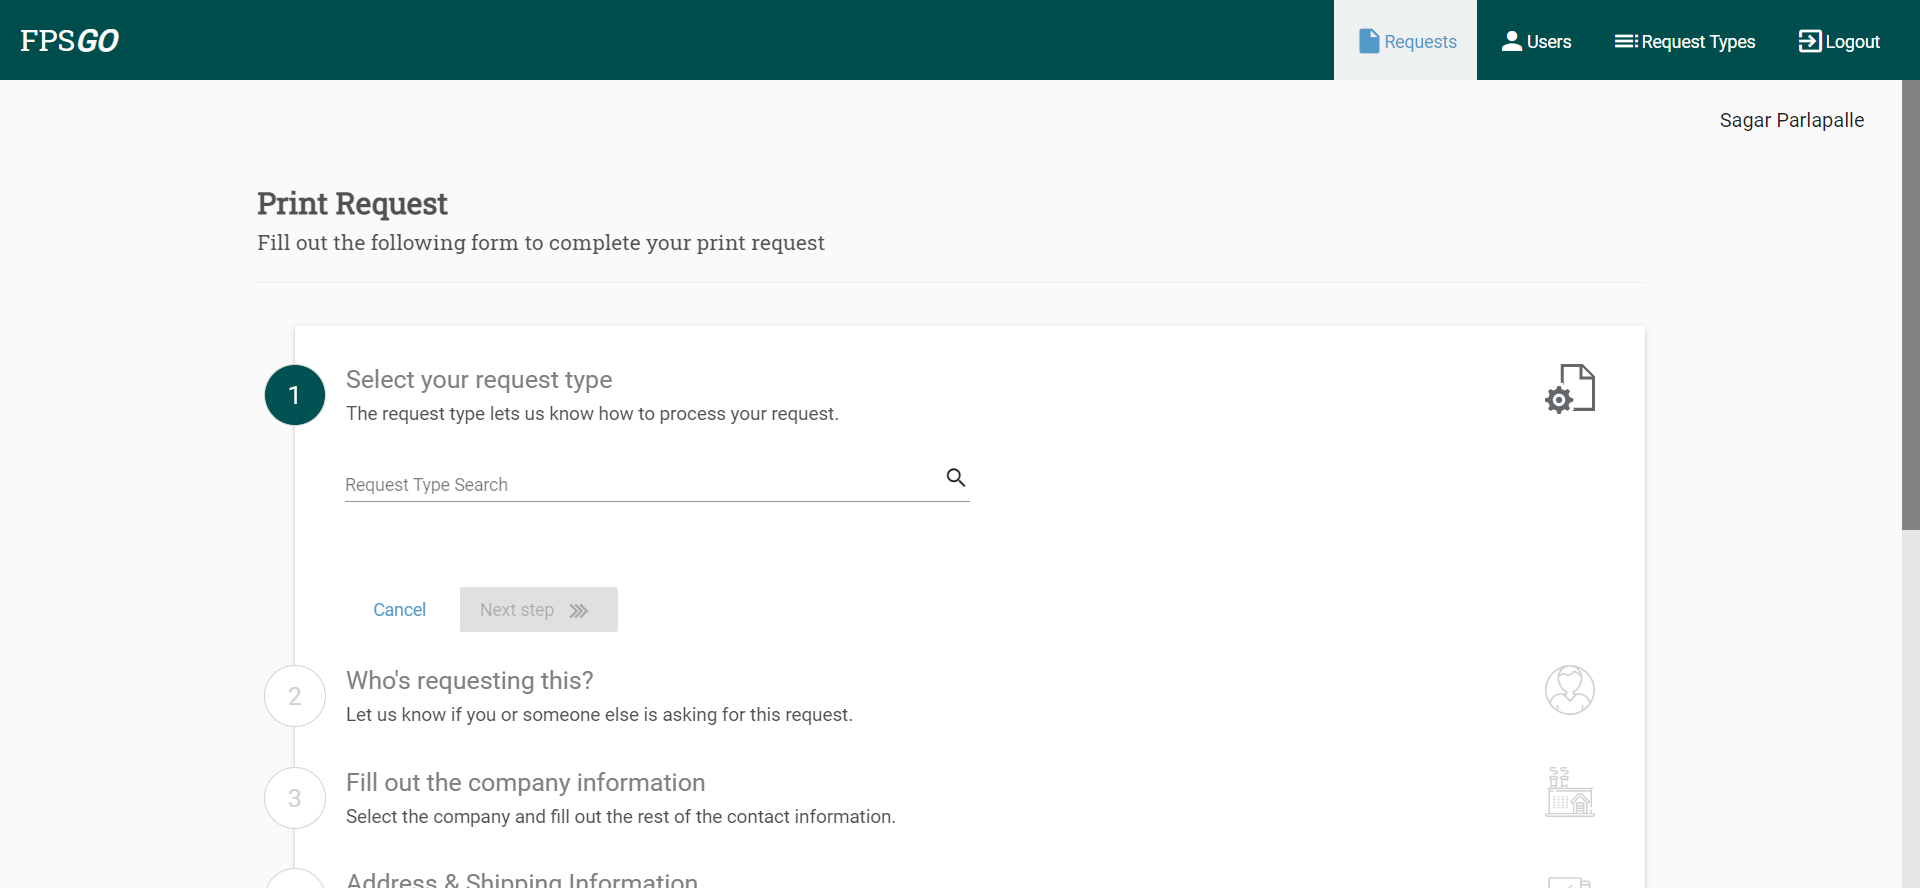
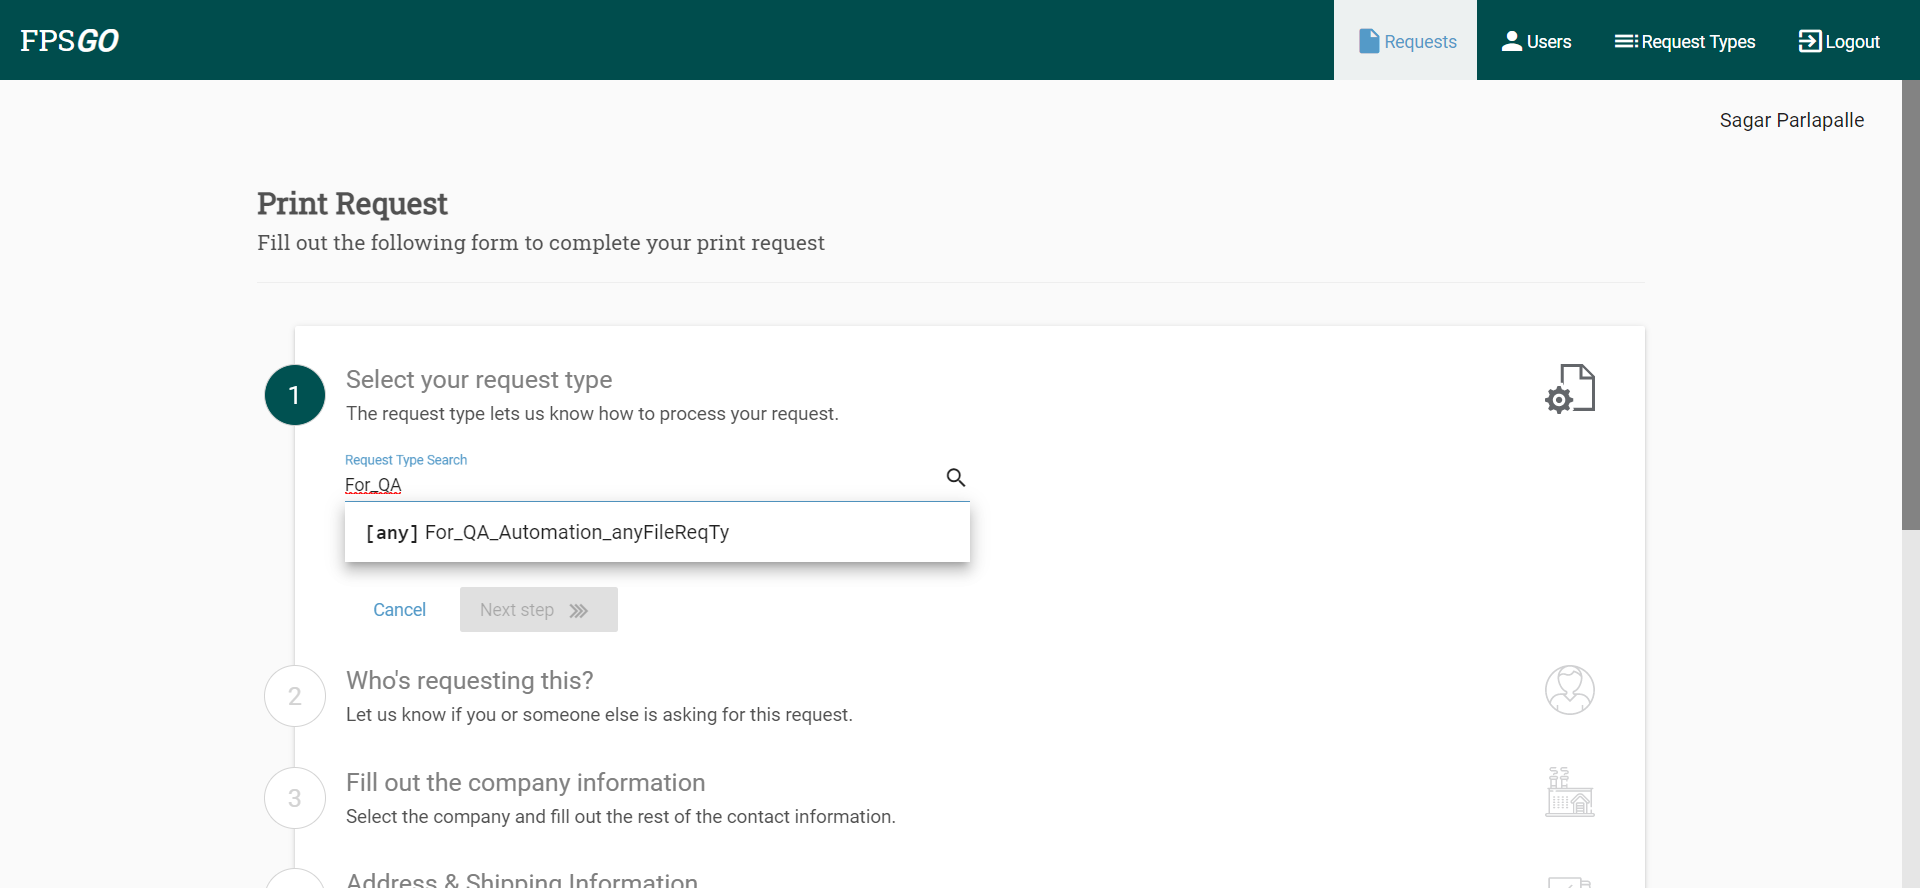
updates for new request

Changed region(s): [[0.1562, 0.5169, 0.5, 0.6689]]

diff --git a/Src/Tests/Create_newRequest_test.js b/Src/Tests/Create_newRequest_test.js
@@ -5,6 +5,7 @@ Feature('Validate Create request for an existing request Type supporting any fil
 
 //Create request from Step 1 through 7  and final for confirmation text message
 var LaunchFPS_go = require("../Pages/homePage");
+var newreq_details = require("../Pages/printRequest_Page");
 
 
 
@@ -17,12 +18,28 @@ I.wait(10);
 
 //I.click(LaunchFPS_go.newRequest_button);
 
-I.click('//button[@class="mat-raised-button"]');
+//I.click('//button[@class="mat-raised-button"]');
+I.click(LaunchFPS_go.newRequest_button);
+
+I.wait(5);
+
+//I.click('//input[@id="mat-input-1"]');
+I.fillField(newreq_details.reqType_text,'For_QA_Automation_anyFileReqTy');   // pull data from Excel sheet with Convert to Json 
+I.wait(5);
+I.click(newreq_details.select_reqType);
+//I.selectOption('//span[@class="mat-option-text"]');
+I.wait(5);
+
+I.wait(5);
+I.click('//button[@class="mat-raised-button mat-accent"]//span[@class="mat-button-wrapper"]');
+
 // Create New Request Page
 
 I.wait(5);
-I.click();
+//I.click();
 //I.click(LaunchFPS_go.logout_button);
 I.wait(5);
 
+I.click('//span[normalize-space()="Logout"]');
+I.wait(5);
 });

diff --git a/Src/Pages/printRequest_Page.js b/Src/Pages/printRequest_Page.js
@@ -1,5 +1,6 @@
 function printRequest() {
-this.reqType_text = '#//input[@id="mat-input-2"]';
+this.reqType_text = '//input[@id="mat-input-1"]';
+this.select_reqType = '//span[@class="mat-option-text"]';
 this.nextStep_button = '#//button[@class="mat-raised-button mat-accent"]';
        //  mat-raised-button mat-accent  //button[@class='mat-raised-button mat-accent cdk-focused cdk-mouse-focused']//span[@class='mat-button-wrapper']
 
@@ -14,4 +15,4 @@ this.req_num_txt = '#page-mainheader[3]';
 
 
 };
-module.exports = new printRequest();//span[normalize-space()='CLICK HERE TO UPLOAD FILES']
+module.exports = new printRequest();
